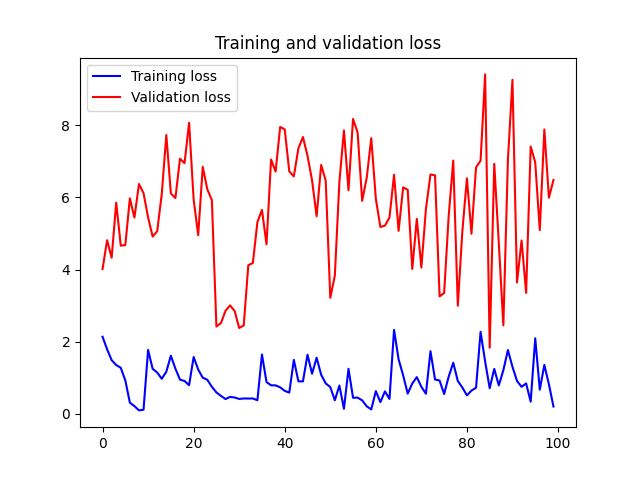
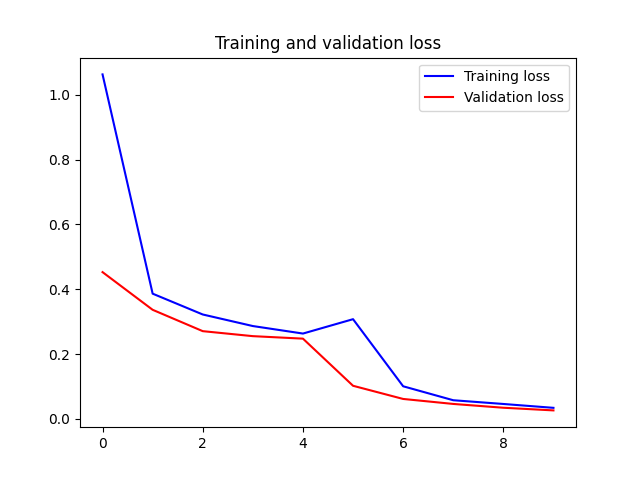
fix: perfect plots

diff --git a/DataGenerator.py b/DataGenerator.py
@@ -35,7 +35,7 @@ class MobiFallGenerator(keras.callbacks.Callback):
 
     def __init__(self, dataset_pattern_path, train_for='acc',
                  batch_size=64,  # steps_per_epoch * epochs
-                 extract_data_size=1,
+                 extract_data_size=2,
                  istrain=False,
                  ratio=0.3):
         self._datafiles = glob.glob(dataset_pattern_path)
@@ -73,8 +73,8 @@ class MobiFallGenerator(keras.callbacks.Callback):
             elif SENSOR_CODE == 'gyro' and self._train_for == 'gyro':
                 self.feed_csv(self.gyro_columns, file, ADL, SUBJECT_ID, TRIAL_NO)
 
-    def label_to_numeric(self, row):
-        return self.label_map[row]
+    def label_to_numeric(self, activity):
+        return self.label_map[activity]
 
     def feed_csv(self, columns, file, ADL, SUBJECT_ID, TRIAL_NO):
         df = pd.read_csv(file, skiprows=16, names=columns)
@@ -89,14 +89,16 @@ class MobiFallGenerator(keras.callbacks.Callback):
 
     def prepare_data(self, activities, main_df, batchsize):
         target_activity = activities[random.randint(0, len(activities) - 1)]
-        target_df = main_df[main_df['activity'] == target_activity]
+        target_df = main_df
+        # target_df = main_df[main_df['activity'] == target_activity]
+        target_df['activity'] = target_df['activity'].apply(lambda activity: self.label_to_numeric(activity))
 
         # print(target_df.head())
         data_size = target_df.shape[0]
         # print(data_size)
 
         if self._extract_data_size > data_size:
-            raise Exception("Not enough data")
+            raise Exception("Not enough data You are training for more timesteps then actual data")
 
         start_pos = [random.randint(1, data_size - self._extract_data_size) for _ in range(data_size)]
 
@@ -113,8 +115,12 @@ class MobiFallGenerator(keras.callbacks.Callback):
                 break
 
             train_x.append(target_df.iloc[start_pos[i]:start_pos[i] + self._extract_data_size, col_indexes].values)
-            train_y.append(
-                to_categorical(self.label_to_numeric(target_activity), num_classes=self.get_total_categories()))
+
+            #get max vote for this region of timestamp
+            labels = target_df.iloc[start_pos[i]:start_pos[i] + self._extract_data_size,
+                           target_df.columns.get_loc('activity')].values
+            labels = sorted(labels, key=list(labels).count)
+            train_y.append(to_categorical(labels[-1],num_classes=self.get_total_categories()))
 
         while len(train_y) < batchsize:
 
@@ -141,7 +147,7 @@ class MobiFallGenerator(keras.callbacks.Callback):
         # there is 500 timestasmps minumum for each activity
 
         target_df = self._all_data[(self._all_data['subject_id'] == self._target_subject_id)].sort_values(
-            by=['activity', 'subject_id', 'trial_id', 'timestamp'], ascending=[True, True, True, True])
+            by=['timestamp', 'subject_id', 'trial_id'], ascending=[True, True, True])
 
         # train test split based on ratio
         if isTrain:
@@ -150,14 +156,14 @@ class MobiFallGenerator(keras.callbacks.Callback):
             target_df = target_df.iloc[
                         (target_df.shape[0] - int(target_df.shape[0] * self.ratio) - 1):target_df.shape[0]]
 
+        # print(target_df.head())
+        # print(self.cols_to_train)
+        # exit(0)
+
         # removing timestamps after ordering
         target_df = target_df.drop(['timestamp'], axis=1)
         if 'timestamp' in self.cols_to_train:
             self.cols_to_train.remove('timestamp')
-
-        # print(target_df.head())
-        # print(self.cols_to_train)
-        # exit(0)
 
         # total_size = target_df.shape[0]
 
@@ -186,10 +192,10 @@ class MobiFallGenerator(keras.callbacks.Callback):
 
     def next_val(self):
         while 1:
-            ret = self.get_batch(self.batch_size, False)
+            ret = self.get_batch(self.batch_size, True)
             yield ret
 
-    def get_test_data(self, subject_id = None, batchsize = 30):
+    def get_test_data(self, subject_id=None, batchsize=30):
         """
         x shape = [datasize, 3]
         y shape = [data-size ,1]
@@ -215,16 +221,16 @@ class MobiFallGenerator(keras.callbacks.Callback):
 
         col_indexes.sort()
 
-
         for i in range(batchsize):
             if len(train_y) == batchsize:
                 break
 
             if i == data_size:
-                 break
+                break
 
             train_x.append(target_df.iloc[start_pos[i]:start_pos[i] + self._extract_data_size, col_indexes].values)
-            train_y.append(target_df.iloc[start_pos[i]:start_pos[i] + self._extract_data_size, activity_col_index].values)
+            train_y.append(
+                target_df.iloc[start_pos[i]:start_pos[i] + self._extract_data_size, activity_col_index].values)
 
         while len(train_y) < batchsize:
 
@@ -232,13 +238,12 @@ class MobiFallGenerator(keras.callbacks.Callback):
                 break
 
             # print('some how less data for one activity for generating more for same subject')
-            x, y = self.get_test_data( subject_id = None, batchsize = batchsize - len(train_y))
+            x, y = self.get_test_data(subject_id=None, batchsize=batchsize - len(train_y))
             for i in range(len(x)):
                 train_x.append(x[i])
                 train_y.append(y[i])
 
         return train_x, train_y
-
 
     def on_epoch_begin(self, epoch, logs={}):
         # pass all the subjects one by with all the activities one by one
@@ -292,12 +297,11 @@ class MobiFallGenerator(keras.callbacks.Callback):
 
 if __name__ == '__main__':
     generator = MobiFallGenerator('./dataset/*/*/*/*/*.txt', istrain=False)
-    x, y = generator.get_batch(100 * 10)
+    x, y = generator.get_batch(10 * 10)
     print(x.shape)
 
     print(y.shape)
 
-    print(generator.get_test_data())
     print(generator.get_observations_per_epoch())
     print(generator.get_features_count())
     print(generator.get_total_categories())

diff --git a/driver.py b/driver.py
@@ -112,6 +112,6 @@ def draw_flow(test_data, label):
             print('Inference Time', inference_time)
 
 
-x, y = generator.get_test_data(1, batchsize = 400)
+x, y = generator.get_test_data(2, batchsize = 400)
 for i in range(len(x)):
     draw_flow(x[i], y[i])

diff --git a/train.py b/train.py
@@ -12,7 +12,7 @@ n_timestamps = 30
 
 # train the network
 steps_per_epoch = 50
-epochs = 100
+epochs = 10
 batchsize = steps_per_epoch * epochs
 
 generator = MobiFallGenerator('./dataset/*/*/*/*/*.txt',

diff --git a/shape_test.py b/shape_test.py
@@ -13,6 +13,7 @@ print(x_train.shape)
 y_train = np.random.random((batch_size, nb_classes))
 
 print(y_train.shape)
+print(y_train[0])
 
 
 label_map = {
